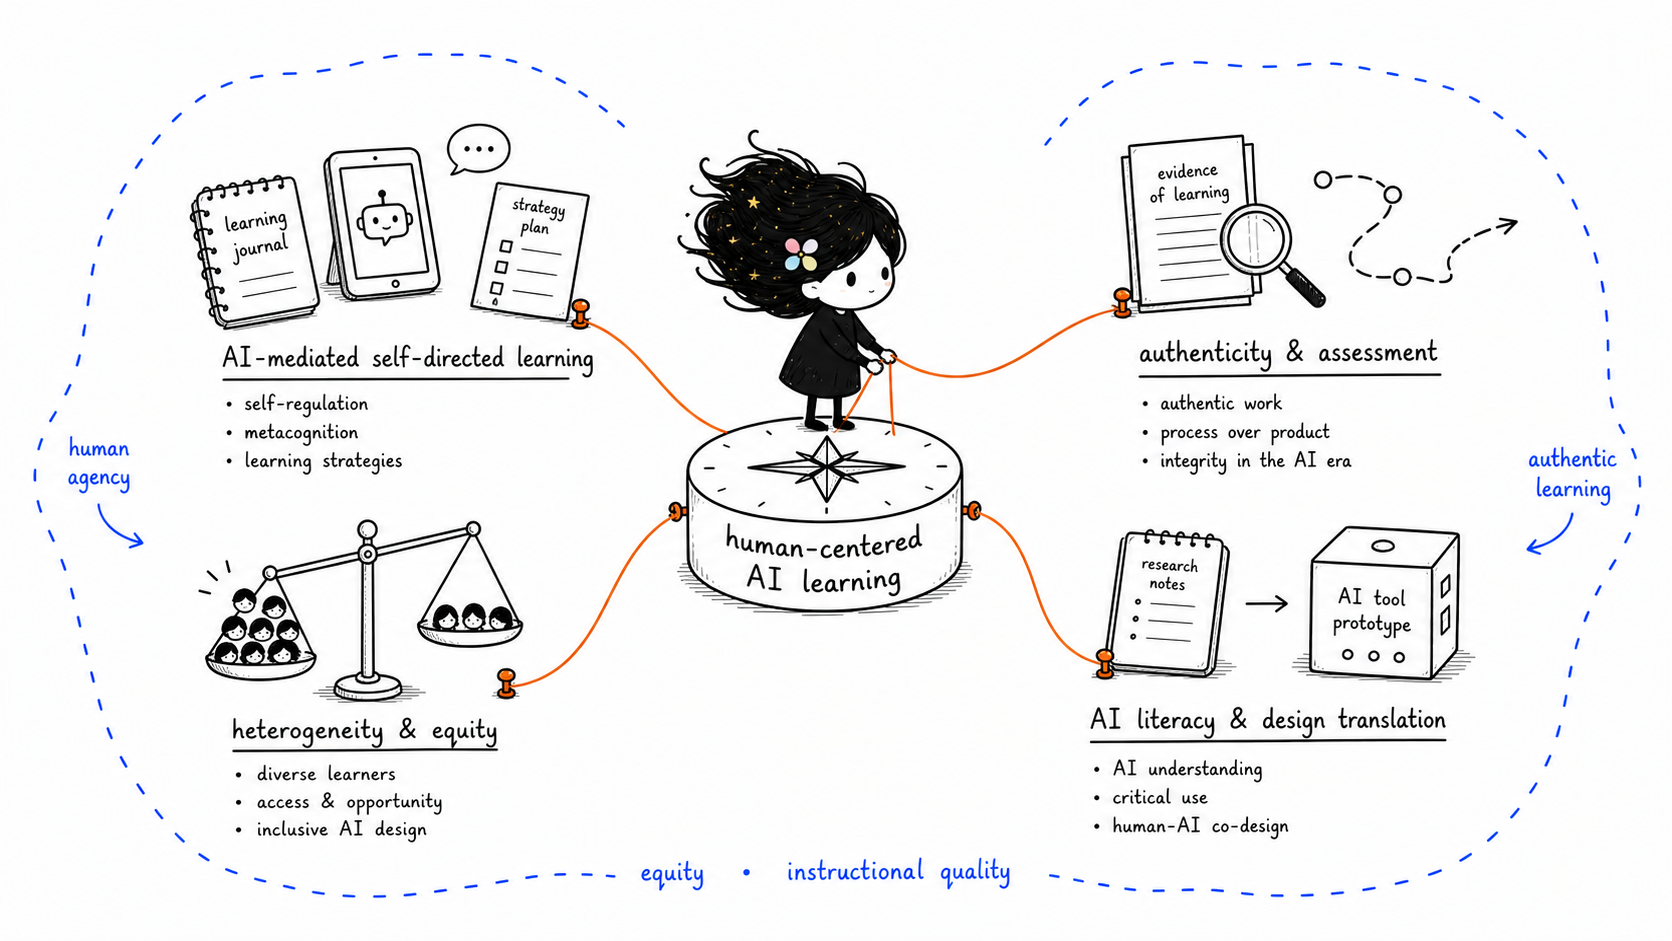
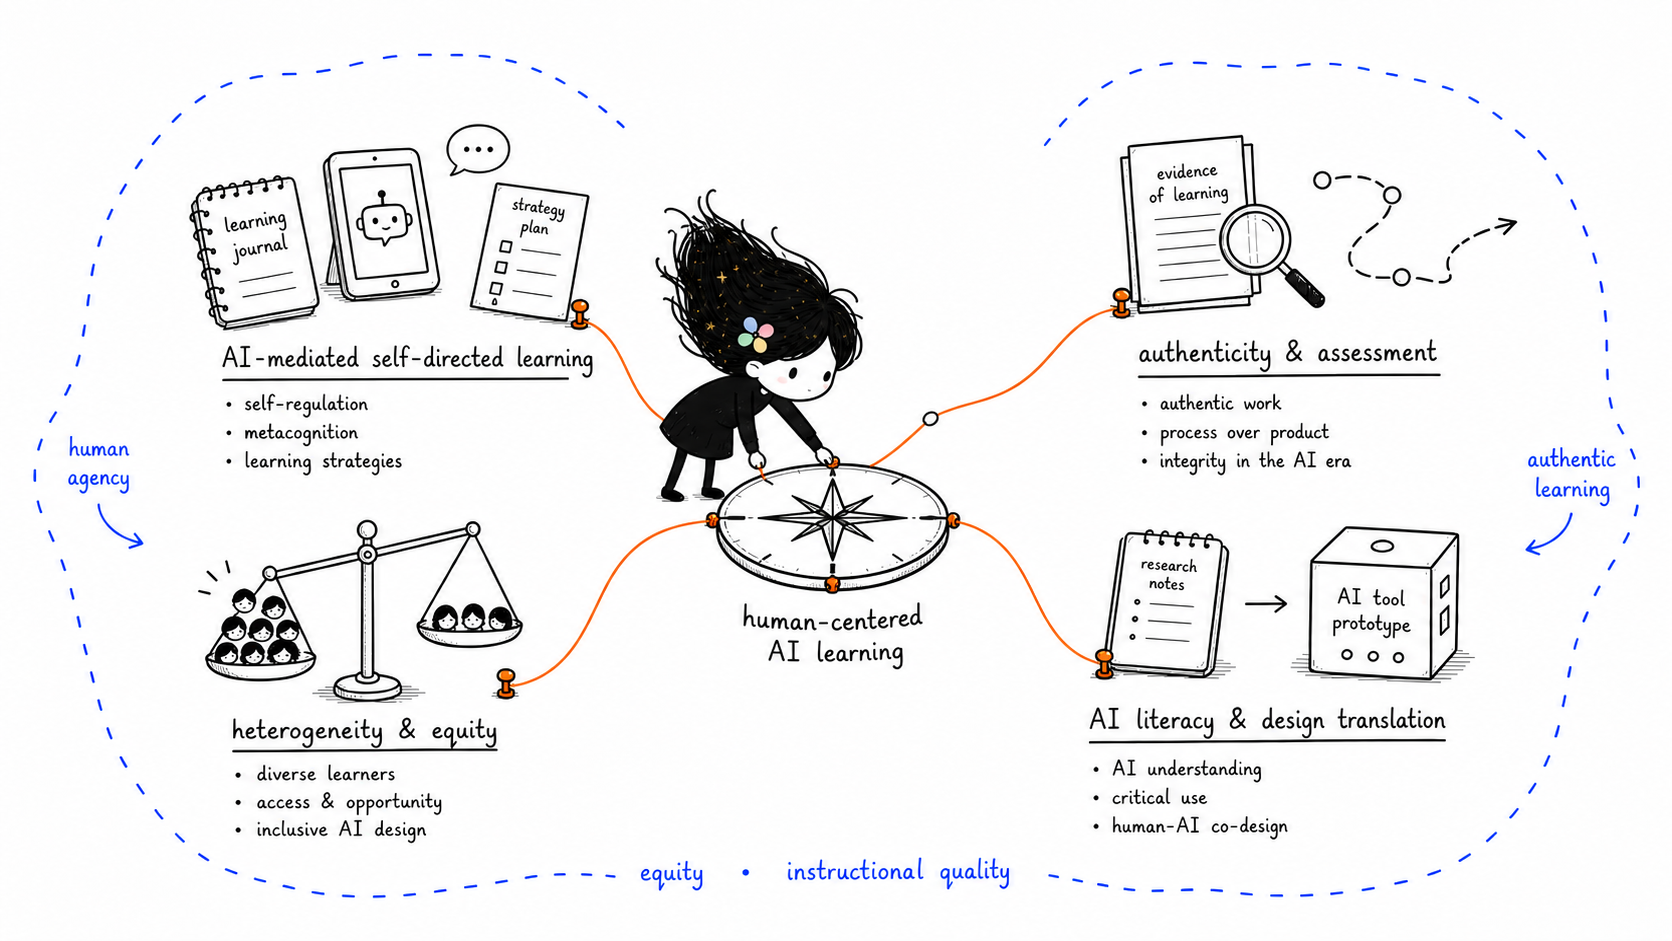
Refresh research story and AI Lunch & Learn

diff --git a/index.html b/index.html
@@ -25,6 +25,156 @@ custom_js:
   color: #5b4432;
   font-style: normal;
 }
+.home-initiative {
+  position: relative;
+  overflow: hidden;
+  display: grid;
+  grid-template-columns: minmax(0, 1fr) 176px;
+  align-items: stretch;
+  gap: 12px;
+  margin: 22px 0 26px;
+  padding: 17px 0 15px;
+  border-top: 1px solid rgba(17, 24, 39, 0.82);
+  border-bottom: 1px solid rgba(17, 24, 39, 0.3);
+  background: #fff;
+}
+.home-initiative::before {
+  content: "";
+  position: absolute;
+  top: -1px;
+  left: 0;
+  width: 92px;
+  height: 2px;
+  background: #e05a2b;
+}
+.home-initiative[hidden] {
+  display: none;
+}
+.home-initiative__content {
+  position: relative;
+  z-index: 2;
+  align-self: center;
+  min-width: 0;
+  padding-left: 2px;
+}
+.home-initiative__heading {
+  display: flex;
+  align-items: baseline;
+  flex-wrap: wrap;
+  gap: 7px 11px;
+  margin: 0 0 7px;
+  color: #181818;
+  font-size: 15px;
+  font-weight: 700;
+  line-height: 1.35;
+}
+.home-initiative__title {
+  padding: 0 2px;
+  background: linear-gradient(180deg, transparent 68%, rgba(224, 90, 43, 0.2) 68%);
+}
+.home-initiative__status {
+  color: #376cba;
+  font-family: "Segoe Print", "Bradley Hand", cursive;
+  font-size: 10.5px;
+  font-weight: 600;
+  font-style: italic;
+  line-height: 1.45;
+  transform: rotate(-1deg);
+}
+.home-initiative__copy {
+  margin: 0 0 9px;
+  max-width: 68ch;
+  color: #4e5865;
+  font-size: 13px;
+  line-height: 1.62;
+}
+.home-initiative__footer {
+  display: flex;
+  align-items: baseline;
+  flex-wrap: wrap;
+  gap: 7px 16px;
+}
+.home-initiative__action {
+  display: inline-flex;
+  align-items: center;
+  gap: 6px;
+  padding: 1px 1px 2px;
+  color: #1f2937;
+  font-size: 12px;
+  font-weight: 700;
+  line-height: 1.35;
+  text-decoration: underline;
+  text-decoration-color: rgba(224, 90, 43, 0.78);
+  text-decoration-thickness: 2px;
+  text-underline-offset: 4px;
+  white-space: nowrap;
+  transition: color 0.18s ease, text-decoration-color 0.18s ease;
+}
+.home-initiative__action::after {
+  content: "→";
+  color: #e05a2b;
+  font-size: 15px;
+  font-weight: 500;
+  transition: transform 0.18s ease;
+}
+.home-initiative__action:hover,
+.home-initiative__action:focus-visible {
+  color: #274f84;
+  text-decoration-color: #e05a2b;
+}
+.home-initiative__action:hover::after,
+.home-initiative__action:focus-visible::after {
+  transform: translateX(3px);
+}
+.home-initiative__note {
+  color: #376cba;
+  font-family: "Segoe Print", "Bradley Hand", cursive;
+  font-size: 10px;
+  font-weight: 600;
+  line-height: 1.4;
+  transform: rotate(-1deg);
+}
+.home-initiative__art {
+  position: relative;
+  min-height: 112px;
+  overflow: hidden;
+  pointer-events: none;
+}
+.home-initiative__art img {
+  position: absolute;
+  top: -6px;
+  right: -5px;
+  width: 205px;
+  max-width: none;
+  height: auto;
+  margin: 0;
+}
+@media (max-width: 620px) {
+  .home-initiative {
+    grid-template-columns: minmax(0, 1fr) 90px;
+    gap: 7px;
+    padding: 15px 0 14px;
+  }
+  .home-initiative__heading {
+    gap: 5px 8px;
+  }
+  .home-initiative__copy {
+    font-size: 12.5px;
+  }
+  .home-initiative__footer {
+    align-items: flex-start;
+    flex-direction: column;
+    gap: 8px;
+  }
+  .home-initiative__art {
+    min-height: 154px;
+  }
+  .home-initiative__art img {
+    top: 4px;
+    right: -48px;
+    width: 210px;
+  }
+}
 .home-hero {
   position: relative;
   display: inline-block;
@@ -366,23 +516,59 @@ custom_js:
  and
  <a href="https://scholar.google.com/citations?hl=en&amp;user=f8J04qAAAAAJ">
   Dr. Marisa Exter
- </a>
- . I earned my master’s degree in Instructional Systems Technology at
+ </a>. I earned my master’s degree in Instructional Systems Technology at
  <a href="https://education.indiana.edu/programs/instructional-systems-technology.html">
   Indiana University Bloomington
- </a>
- , where I was advised by
+ </a>, where I was advised by
  <a href="https://scholar.google.com/citations?user=dsdG3ewAAAAJ&amp;hl=en">
   Dr. Curtis J. Bonk
- </a>
- . My research examines how <span class="bio-kw">generative AI</span> reshapes <span class="bio-kw">learner agency</span>, <span class="bio-kw">authenticity</span>, and <span class="bio-kw">equity</span> across learning contexts. I build this agenda through learning analytics, mixed-methods inquiry, measurement, and design-based research, drawing on behavioral data and person-centered methods to understand how learners differ in their engagement with AI. My work combines <span class="bio-em">empirical research with design practice</span>: I develop educational tools, translate theory into usable learning designs, and draw on three years of teaching and program experience at Indiana University Bloomington. Recent work has been recognized with the Global Smart Education Innovation Prize for the PA-SDA Scale (2025), the AECT Outstanding Journal Article Award for <a href="https://community.intel.com/t5/Blogs/Tech-Innovation/Artificial-Intelligence-AI/Intel-Labs-Kid-Space-Conversational-AI-Facilitates-Collaborative/post/1697865" target="_blank" rel="noopener">a collaborative study with Intel Labs</a> on AI-mediated learning (2025), and a World Digital Education Alliance (WDEA) Certificate of Recognition for the PeteGPT AI tutoring project (2026).
+ </a>.
+</p>
+<p class="lang-en">
+My research focuses on how people learn with, through, and about artificial intelligence. I examine how learners decide which tasks to delegate to generative AI, how AI use influences <span class="bio-kw">reflection and self-regulation</span>, and how AI-enhanced learning environments can preserve <span class="bio-kw">meaningful human agency</span>.
+</p>
+<p class="lang-en">
+My work combines <span class="bio-em">empirical research with design practice</span>: I develop educational tools, translate theory into usable learning designs, and draw on seven years of teaching and program experience at Indiana University Bloomington and Purdue University.
+</p>
+{% assign ai_lunch_learn = site.data.news | where: "id", "ai-lunch-learn" | first %}
+<aside class="home-initiative lang-en" aria-labelledby="ai-lunch-learn-title">
+  <div class="home-initiative__content">
+    <h2 class="home-initiative__heading" id="ai-lunch-learn-title"><span class="home-initiative__title">Purdue AI Lunch &amp; Learn</span> <span class="home-initiative__status">now organizing</span></h2>
+    <p class="home-initiative__copy">I am currently leading a series of practical, hands-on workshops on teaching and learning with AI. I welcome collaborators who want to contribute expertise or co-design a session.</p>
+    <div class="home-initiative__footer">
+      <a class="home-initiative__action" href="{{ ai_lunch_learn.cta_url }}" target="_blank" rel="noopener">Collaborate or co-design</a>
+      <span class="home-initiative__note">Purdue affiliation not required</span>
+    </div>
+  </div>
+  <div class="home-initiative__art" aria-hidden="true">
+    <img src="/assets/images/design/belle-black-comet-current.jpg" alt="" data-no-lightbox="true">
+  </div>
+</aside>
+<p class="lang-en">
+Recent work has been recognized with the Global Smart Education Innovation Prize for the PA-SDA Scale (2025), the AECT Outstanding Journal Article Award for <a href="https://community.intel.com/t5/Blogs/Tech-Innovation/Artificial-Intelligence-AI/Intel-Labs-Kid-Space-Conversational-AI-Facilitates-Collaborative/post/1697865" target="_blank" rel="noopener">a collaborative study with Intel Labs</a> on AI-mediated learning (2025), and a World Digital Education Alliance (WDEA) Certificate of Recognition for the PeteGPT AI tutoring project (2026).
 </p>
 <p class="lang-zh" hidden>
 我于<a href="https://education.purdue.edu/graduate-students/prospective-students/graduate-programs/learning-design-technology/">普渡大学</a>获得学习设计与技术方向博士学位，师从<a href="https://scholar.google.com/citations?user=xSX2cwkAAAAJ&amp;hl=en&amp;oi=ao">Victoria L. Lowell博士</a>和<a href="https://scholar.google.com/citations?hl=en&amp;user=f8J04qAAAAAJ">Marisa Exter博士</a>；此前于<a href="https://education.indiana.edu/programs/instructional-systems-technology.html">印第安纳大学伯明顿分校</a>获得教学系统技术硕士学位，师从<a href="https://scholar.google.com/citations?user=dsdG3ewAAAAJ&amp;hl=en">Curtis J. Bonk博士</a>。
 </p>
 <p class="lang-zh" hidden>
-我的研究关注<span class="bio-kw">生成式人工智能</span>如何重塑不同学习情境中的<span class="bio-kw">学习者能动性</span>、<span class="bio-kw">真实学习体验</span>与<span class="bio-kw">教育公平</span>。我综合运用学习分析、混合研究方法、测量研究与基于设计的研究方法，探究学习者在与AI互动过程中的个体差异、学习路径与支持机制。我的工作连接<span class="bio-em">实证研究与设计实践</span>，既关注理论建构与机制解释，也致力于开发教育技术工具，并将研究发现转化为可实施的学习设计方案。这一研究取向也受到我在印第安纳大学三年教学与项目实践经验的持续影响。
+我的研究聚焦于人们如何与人工智能共同学习、通过人工智能学习，以及学习关于人工智能的知识。我关注学习者如何决定将哪些任务交由生成式人工智能完成，人工智能的使用如何影响<span class="bio-kw">反思与自我调节</span>，以及如何设计能够保留<span class="bio-kw">有意义的人类能动性</span>的人工智能增强学习环境。
 </p>
+<p class="lang-zh" hidden>
+我的工作连接<span class="bio-em">实证研究与设计实践</span>：我开发教育工具，将理论转化为可实施的学习设计，并将自己在印第安纳大学伯明顿分校和普渡大学七年的教学与项目经验融入研究与设计之中。
+</p>
+<aside class="home-initiative lang-zh" aria-labelledby="ai-lunch-learn-title-zh" hidden>
+  <div class="home-initiative__content">
+    <h2 class="home-initiative__heading" id="ai-lunch-learn-title-zh"><span class="home-initiative__title">普渡大学 AI Lunch &amp; Learn</span> <span class="home-initiative__status">筹备中</span></h2>
+    <p class="home-initiative__copy">我近期正在负责一系列聚焦人工智能与教学实践的动手型工作坊。欢迎分享专长或共同设计活动。</p>
+    <div class="home-initiative__footer">
+      <a class="home-initiative__action" href="{{ ai_lunch_learn.cta_url }}" target="_blank" rel="noopener">提交合作构想</a>
+      <span class="home-initiative__note">无需隶属于普渡大学</span>
+    </div>
+  </div>
+  <div class="home-initiative__art" aria-hidden="true">
+    <img src="/assets/images/design/belle-black-comet-current.jpg" alt="" data-no-lightbox="true">
+  </div>
+</aside>
 <p class="lang-zh" hidden>
 近期，我的研究成果获得多项认可：PA-SDA量表荣获全球智慧教育创新奖（2025）；与英特尔实验室合作开展的<a href="https://community.intel.com/t5/Blogs/Tech-Innovation/Artificial-Intelligence-AI/Intel-Labs-Kid-Space-Conversational-AI-Facilitates-Collaborative/post/1697865" target="_blank" rel="noopener">AI辅助协作学习研究</a>获得AECT杰出期刊论文奖（2025）；PeteGPT人工智能辅导项目获得世界数字教育联盟（WDEA）表彰证书（2026）。
 </p>
@@ -413,7 +599,7 @@ custom_js:
 </style>
 <figure class="home-mobile-map" data-reveal>
   <a class="home-mobile-map__link" href="/research/" aria-label="Open Research page">
-    <img src="/assets/images/research/human-centered-ai-learning-strands.png" alt="Illustrated map of four human-centered AI learning research strands" data-no-lightbox="true">
+    <img src="/assets/images/research/human-centered-ai-learning-strands.png?v=20260824" alt="Illustrated map of four human-centered AI learning research strands" data-no-lightbox="true">
   </a>
   <figcaption><span class="lang-en">A visual map of my four research strands.</span><span class="lang-zh" hidden>我的四个研究方向图谱。</span></figcaption>
 </figure>

diff --git a/_includes/news-feed.html b/_includes/news-feed.html
@@ -122,6 +122,28 @@
 .news-item__text a:hover {
   text-decoration: underline;
 }
+.news-item__action {
+  display: inline-flex;
+  align-items: center;
+  margin-top: 8px;
+  padding: 5px 10px;
+  border: 1px solid #d7e2ee;
+  border-radius: 999px;
+  background: #fff;
+  color: #3d628f;
+  font-size: 10.75px;
+  font-weight: 700;
+  line-height: 1.35;
+  text-decoration: none;
+  transition: border-color 0.18s ease, background 0.18s ease, color 0.18s ease;
+}
+.news-item__action:hover,
+.news-item__action:focus-visible {
+  border-color: #b8cadc;
+  background: #f8fbff;
+  color: #254f82;
+  text-decoration: none;
+}
 .news-item__img {
   width: 80px;
   height: 60px;
@@ -231,9 +253,12 @@
       </div>
       <div class="news-item__body">
         <p class="news-item__text">{{ item.text }}</p>
+        {% if item.cta_url %}
+        <a class="news-item__action" href="{{ item.cta_url }}" target="_blank" rel="noopener" onclick="event.stopPropagation()">{{ item.cta_label | default: "Learn more" }}</a>
+        {% endif %}
       </div>
       {% if item.image %}
-      <img class="news-item__img" src="{{ item.image }}" alt="{{ item.image_alt | default: item.type }}">
+      <img class="news-item__img" src="{{ item.image }}" alt="{{ item.image_alt | default: item.type }}" loading="lazy" decoding="async">
       {% endif %}
     </li>
     {% endfor %}

diff --git a/assets/js/site-reach.js b/assets/js/site-reach.js
@@ -6,6 +6,7 @@
     if (href.indexOf('mailto:') === 0) return 'email_click';
     if (href.indexOf('scholar.google.com') !== -1) return 'google_scholar_click';
     if (href.indexOf('linkedin.com') !== -1) return 'linkedin_click';
+    if (href.indexOf('qualtrics.com') !== -1) return 'collaboration_form_click';
     if (href.indexOf('app.box.com') !== -1 || text === 'cv') return 'cv_click';
     if (href.indexOf('doi.org/') !== -1) return 'doi_click';
     if (href.indexOf('/projects/') !== -1) return 'project_click';

diff --git a/_pages/research-page.md b/_pages/research-page.md
@@ -490,7 +490,7 @@ a.sp-paper__title:hover { color: var(--sp-accent, #4a6e9a); }
 
 <figure class="rp-overview-art" data-reveal>
   <div class="rp-overview-map" aria-label="Clickable research strand map">
-    <img src="/assets/images/research/human-centered-ai-learning-strands.png" alt="Illustrated map of four human-centered AI learning research strands" data-no-lightbox="true">
+    <img src="/assets/images/research/human-centered-ai-learning-strands.png?v=20260824" alt="Illustrated map of four human-centered AI learning research strands" data-no-lightbox="true">
     <button class="rp-map-hit rp-map-hit--a" type="button" data-zone="a" onclick="showPanel('a', true)"><span>AI-mediated self-directed learning</span></button>
     <button class="rp-map-hit rp-map-hit--b" type="button" data-zone="b" onclick="showPanel('b', true)"><span>Authenticity and assessment</span></button>
     <button class="rp-map-hit rp-map-hit--c" type="button" data-zone="c" onclick="showPanel('c', true)"><span>Learner heterogeneity and equity</span></button>
